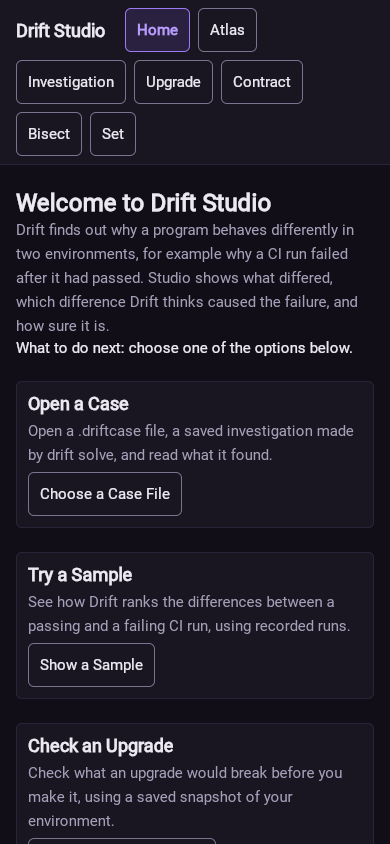
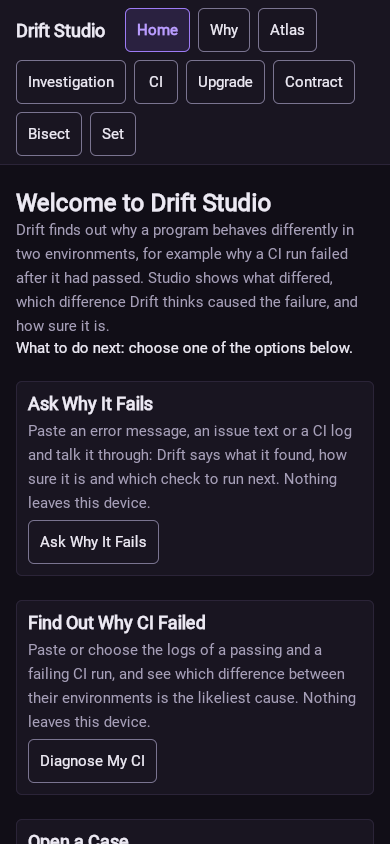
docs: add the Why and CI screens to the Studio manual and retake Home

Changed region(s): [[0.0615, 0.4621, 0.9231, 1.0], [0.3692, 0.0, 0.9231, 0.1232], [0.5231, 0.9858, 0.5538, 1.0]]

diff --git a/MANUAL.md b/MANUAL.md
@@ -2,8 +2,8 @@
 
 Studio is the Drift app. It shows what the `drift` command shows, with buttons instead of flags. This
 manual walks through each screen in the order you meet it, with a picture of each. The pictures are
-of the web build, taken in a desktop-sized window (1280 by 800 pixels) and, for the first two
-screens, in a phone-sized one (390 by 844).
+of the web build, taken in a desktop-sized window (1280 by 800 pixels) and, for Home and the Atlas,
+in a phone-sized one (390 by 844).
 
 Studio only reads. It never changes your files and never sends anything anywhere. Every screen has a
 one-paragraph explanation at the top, and a line that starts with "What to do next".
@@ -36,17 +36,76 @@ are the operating system's own.
 ![The Home screen](docs/manual/home.png)
 
 Home is the first screen. Each box is a way in, with one line on what it does and one button.
-**Open a Case** reads a saved investigation from a file. **Try a Sample** uses recorded runs that
-come with Studio. The next four boxes open Upgrade, Contract, Bisect and Set. **Browse the Atlas**
-opens the Atlas.
+**Ask Why It Fails** opens the Why screen, where you paste an error message, an issue text or a CI
+log. **Find Out Why CI Failed** opens the CI screen for a passing and a failing run. **Open a Case**
+reads a saved investigation from a file. **Try a Sample** uses recorded runs that come with Studio.
+The next four boxes open Upgrade, Contract, Bisect and Set. **Browse the Atlas** opens the Atlas.
 
-If you have nothing to open yet, choose **Show a Sample**. It needs no file.
+If you have a failure and nothing else, start with **Ask Why It Fails**. If you have nothing at all
+yet, choose **Show a Sample**. It needs no file.
 
-The row of buttons at the top (Home, Atlas, Investigation, Upgrade, Contract, Bisect, Set) stays on
-every screen. A Case button joins the row once you open a case. On a phone the row wraps onto
-several lines and the boxes stack in one column.
+The row of buttons at the top (Home, Why, Atlas, Investigation, CI, Upgrade, Contract, Bisect, Set)
+stays on every screen. A Case button joins the row once you open a case. On a phone the row wraps
+onto several lines and the boxes stack in one column.
 
 ![Home on a phone](docs/manual/home-phone.png)
+
+## Why
+
+![The Why screen after an error message was sent](docs/manual/why.png)
+
+Why is the screen to start from when something fails and you do not know where to look. It does
+what `drift why` does, as a conversation. You paste what you have: an error message, an issue text,
+a CI log or a saved capture of one machine (`drift why --save there.json` writes one). Drift says
+how it read what you pasted, what it found, how sure it is and what to try next.
+
+What to do:
+
+1. Paste into **Your Message** and choose **Send**.
+2. Check the line that says how Drift read it, for example "I read this as an error message". If it
+   guessed wrong, choose the button that reads it as something else, such as **Read It as an Issue
+   Text Instead**.
+3. Read the answer. The picture shows what happens when the text names no tool, version or setting:
+   Drift says "Not sure: nothing I can read explains it" and does not guess.
+4. When Drift needs more, it shows **The Check to Run**, a command with a **Copy the Command**
+   button. Run it where the program fails and paste what it prints into **Output where it fails**,
+   then choose **Send the Answer**. Drift may then ask for the same check where the program works,
+   in **Output where it works**.
+5. Once both sides are known, Drift compares them and gives the verdict, the differences it found and
+   what to try next. When one difference stands out, the verdict says "most likely": Drift has not
+   run an experiment, so it does not state a cause as fact. When several fit, it lists them and says
+   the data cannot tell them apart.
+
+**New Conversation** clears the screen. **Export Conversation** copies the conversation as text. What
+you paste is read on your device and kept only until you start a new conversation or close Studio.
+Secrets are masked first.
+
+The same answers come from the command: `drift why --error "TEXT"`, then `drift why --reply` with the
+output of the check. [Why](docs/why.md) lists every flow with real output, and `drift demo` replays
+one recorded failure from start to finish.
+
+## CI
+
+![The CI screen with the sample logs diagnosed](docs/manual/ci.png)
+
+CI compares the logs of a passing and a failing CI run. Drift reads GitHub Actions and GitLab CI
+logs, finds the runner environment in each and ranks the differences. Everything happens on your
+device, and secrets are masked before anything is shown.
+
+What to do:
+
+1. Choose **Try With Sample Logs** to use a pair of recorded runs of one public project, or choose or
+   paste your own logs under **1. Passing Run Log** and **2. Failing Run Log**.
+2. If a GitHub Actions log holds more than one job, type the job's name under **3. Job Name
+   (Optional)**. Leave it empty to use the first job with a runner environment.
+3. Choose **Diagnose These Logs** (the sample runs by itself). The Result box says in one sentence
+   what Drift found, and the list below it ranks the differences by evidence level.
+
+The sample result reads "Drift cannot name one cause: 3 differences tie for the top place". The three
+are the runner's provisioner build date and version and the runner image version, all at level 1
+(Difference), and the screen says "This is a ranking, not a confirmed cause." Drift compares the
+environments of two runs, so it cannot find an ordinary code regression. If the code changed between
+the runs, check that change first.
 
 ## Investigation
 
@@ -243,6 +302,8 @@ rows marked "scrolled" need the page moved down by the stated number of wheel st
 | --- | --- | --- | --- |
 | `home.png` | 1280 x 800 | `/` | Home, nothing clicked. |
 | `home-phone.png` | 390 x 844 | `/` | Home on a mobile viewport, after a reload. |
+| `why.png` | 1280 x 800 | `/` | **Why** tab, click the message box, type `TypeError: Object.groupBy is not a function`, choose **Send**. |
+| `ci.png` | 1280 x 800 | `/` | **CI** tab, **Try With Sample Logs**, then press PageDown twice so the Result box shows. |
 | `investigation.png` | 1280 x 800 | `/` | **Show a Sample**, then select the first difference ("Node version"). |
 | `atlas-device.png` | 1280 x 800 | `/` | **Atlas** tab. Wait for "measured in" to appear in the This Device panel. |
 | `atlas-device-phone.png` | 390 x 844 | `/` | **Atlas** tab on a mobile viewport, then scrolled 4 steps so the This Device panel shows. |
@@ -262,8 +323,11 @@ Keep each file under about 400 KB.
 Each sentence below states something this manual says that a later change to Studio could make false.
 
 - Studio reads files and sends nothing anywhere (the Atlas footer says so on screen).
-- The Home screen has boxes titled Open a Case, Try a Sample, Check an Upgrade, Check a Contract, Plan a Bisect, Compare a Set and Browse the Atlas.
-- The top row has the buttons Home, Atlas, Investigation, Upgrade, Contract, Bisect and Set, and a Case button once a case is open.
+- The Home screen has boxes titled Ask Why It Fails, Find Out Why CI Failed, Open a Case, Try a Sample, Check an Upgrade, Check a Contract, Plan a Bisect, Compare a Set and Browse the Atlas.
+- The top row has the buttons Home, Why, Atlas, Investigation, CI, Upgrade, Contract, Bisect and Set, and a Case button once a case is open.
+- The Why screen reads a pasted error message, issue text, CI log or saved capture, says how it read it, and asks for one check at a time with **Output where it fails** and **Output where it works**.
+- The error `TypeError: Object.groupBy is not a function` alone gets "Not sure: nothing I can read explains it" and a request for a saved capture of the failing machine.
+- The CI screen's sample logs give a result that says 3 differences tie for the top place, at evidence level 1 of 4.
 - **Show a Sample** opens the Investigation screen with three failing runs compared with passing run 36702683742.
 - The sample investigation says that 9 differences tie for the top place and that the first is the node version.
 - The Atlas measures the device when Studio opens, and **Run on This Device** measures again.
